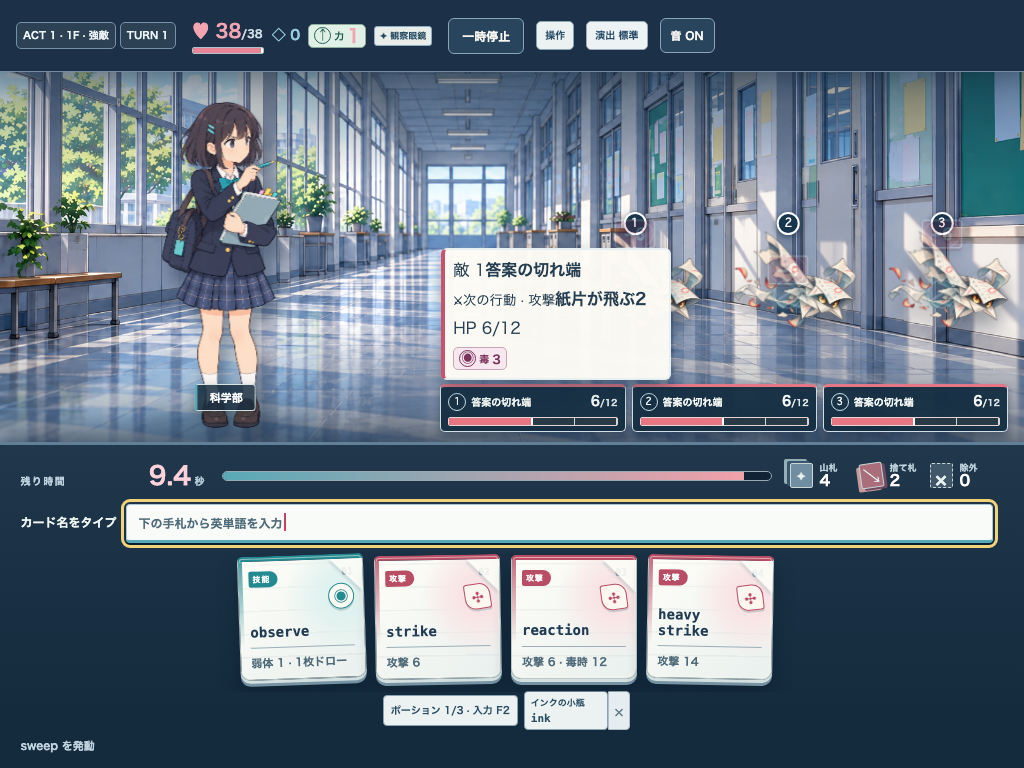
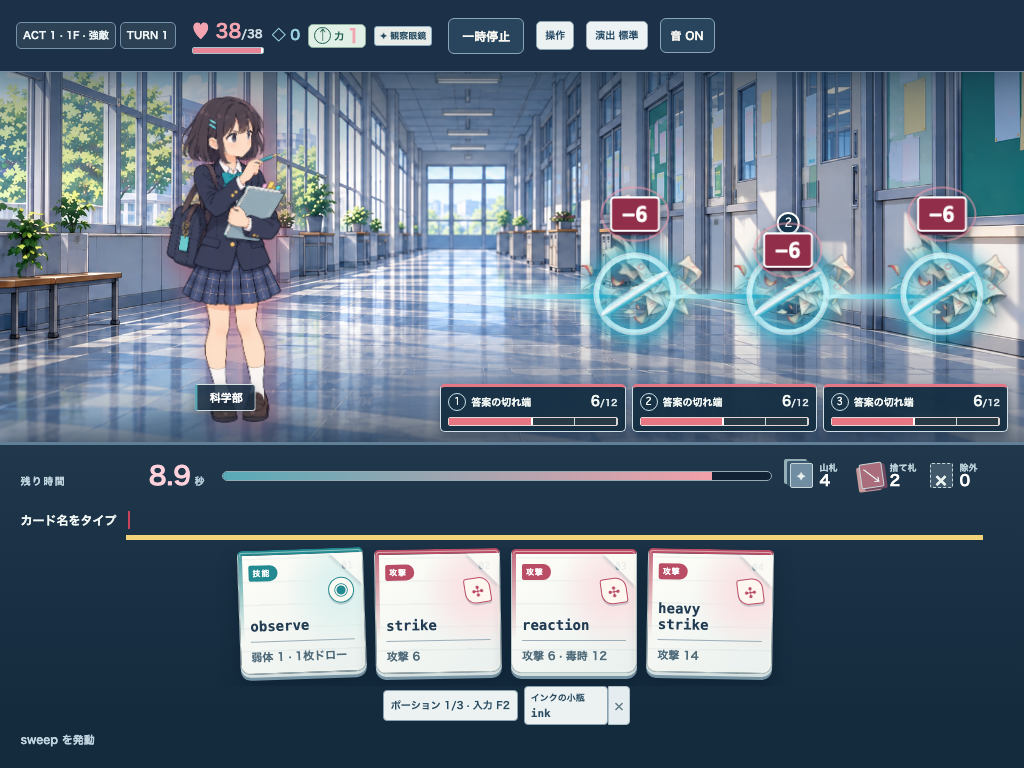
fix: reveal dense formation during result cues

diff --git a/tests/e2e/battle-hud-stability.spec.ts b/tests/e2e/battle-hud-stability.spec.ts
@@ -174,14 +174,20 @@ for (const { count, width, height } of [{ count: 3, width: 1024, height: 768 }, 
     await page.addInitScript((value) => localStorage.setItem("school-rg-run-v1", value), saved);
     await page.goto("/");
     await page.locator(".enemy-roster-button").first().click();
+    await expect(page.locator(".enemy-detail").first()).toBeVisible();
     await page.keyboard.type("sample");
     await expect(page.locator(".result-fx-mark[data-kind=debuff]")).toContainText("毒 +3");
+    await expect(page.locator(".enemy-detail").first()).toBeHidden();
+    await expect(page.locator(".enemy-roster-button").first()).toHaveAttribute("aria-label", /状態: 毒 3/);
     const statusMark = await page.locator(".result-fx-mark[data-kind=debuff]").boundingBox();
     const roster = await page.locator(".enemy-roster").boundingBox();
     expect(statusMark!.y + statusMark!.height).toBeLessThanOrEqual(roster!.y);
+    await page.clock.runFor(420);
+    await expect(page.locator(".enemy-detail").first()).toBeVisible();
     await expect(page.locator(".enemy-detail-status").first()).toContainText("毒");
     await page.keyboard.type("sweep");
     await expect(page.locator(".result-fx-mark[data-kind=damage]")).toHaveCount(count);
+    await expect(page.locator(".enemy-detail").first()).toBeHidden();
     await page.clock.runFor(140);
     const marks = await page.locator(".result-fx-mark[data-kind=damage]").evaluateAll((nodes) => nodes.map((node) => {
       const box = node.getBoundingClientRect();

diff --git a/src/ui/result-fx.css b/src/ui/result-fx.css
@@ -1,5 +1,7 @@
 /* Resolved values float over actors. Nothing changes the stage, header, or input geometry. */
 .result-fx-layer{position:absolute;inset:0;z-index:9;overflow:hidden;contain:paint;pointer-events:none}
+/* A hovered target's detail can cover several actors in dense formations. Yield the stage during a resolved cue. */
+.stage:has(.result-fx-layer) .enemy-detail{display:none}
 .result-fx-mark{position:absolute;top:calc(38% + var(--fx-offset,0px));display:block;min-width:48px;padding:5px 9px;transform:translate(-50%,0);border:2px solid #fff;border-radius:4px;background:#912f4a;color:#fff;box-shadow:0 3px 0 #4b2039,0 4px 14px #112b45b0;font:900 clamp(15px,2vw,26px)/1 ui-monospace,Menlo,monospace;text-align:center;white-space:nowrap;animation:result-pop .42s ease-out both}
 .result-fx-mark[data-kind="heal"]{background:#247c6e;box-shadow:0 3px 0 #175247,0 4px 14px #112b45b0}
 .result-fx-mark[data-kind="block"]{background:#38698f;box-shadow:0 3px 0 #254865,0 4px 14px #112b45b0}

diff --git a/docs/art/issue177-motion-review.md b/docs/art/issue177-motion-review.md
@@ -24,7 +24,7 @@
 
 [状態異常の局所表示](previews/issue177-status-response-1024.png) は、科学部のカード `sample` を実際に入力して確認した。
 [決着の一撃](previews/issue177-final-hit-1024.png) と [敗北の被弾](previews/issue177-final-loss-1024.png) は、勝敗確定後も画面全体を揺らさず対象だけに表示した。
-統合済みの状態アイコンと敵名札を含む [3体編成](previews/issue177-formation-3-1024.png)・[5体編成](previews/issue177-formation-5-1024.png) でも、全体攻撃の結果を敵ごとにずらして表示し、敵詳細より手前の層に置いた。敵の静的な状態アイコンは継続して読める。390px の [3体](previews/issue177-formation-3-390.png)・[5体](previews/issue177-formation-5-390.png) は参考確認で、詳細パネルと人物が重なる既存の狭幅課題が残る。対象端末はPC/iPadのため本Issueでの狭幅再設計は含めない。
+統合済みの状態アイコンと敵名札を含む [3体編成](previews/issue177-formation-3-1024.png)・[5体編成](previews/issue177-formation-5-1024.png) でも、全体攻撃の結果を敵ごとにずらして表示する。敵詳細は結果キュー中だけ隠し、キュー終了後に戻す。選択中の状態は敵ボタンの読み上げ名にも残る。390px の [3体](previews/issue177-formation-3-390.png)・[5体](previews/issue177-formation-5-390.png) は参考確認で、平常時の詳細パネルと人物が重なる既存の狭幅課題が残る。対象端末はPC/iPadのため本Issueでの狭幅再設計は含めない。
 新しい3 Actの後半背景でも攻撃結果の位置とコントラストを確認した。Act 1 [PC](previews/issue177-act1-impact-1440.png) / [iPad相当](previews/issue177-act1-impact-1024.png)、Act 2 [PC](previews/issue177-act2-impact-1440.png) / [iPad相当](previews/issue177-act2-impact-1024.png)、Act 3 [PC](previews/issue177-act3-impact-1440.png) / [iPad相当](previews/issue177-act3-impact-1024.png)。背景の明暗差があっても赤い数値札と白い縁が分離し、ステージ内に収まる。
 
 ## 検証範囲
@@ -33,7 +33,7 @@
 - 全E2E 96件は最初の実行で94件通過、複数味方の枠幅と手札固定語の前提による2件を修正した。修正箇所を含むE2E 5件は再実行で通過。
 - 最新 `main` のヘッダ統合後、単体/統合の対象6件、E2E 5件、戦闘内ヘルプと時計に関するE2E 3件が通過。PR CIで最終ツリー全体を確認する。
 - 決着演出の追加後、最後の一撃・致命的な被弾・決着中のセーブ復帰を専用E2E 2件で確認した。全体E2EはPR CIで確認する。
-- #191 のカード・状態表示を取り込んだ後、3体/5体編成の状態異常と全体攻撃を1024px・390pxで専用E2E 4件として確認した。
+- #191 のカード・状態表示を取り込んだ後、3体/5体編成の状態異常と全体攻撃を1024px・390pxで専用E2E 4件として確認した。敵詳細が結果キュー中に閉じ、終了後に戻ることも確認した。
 - #196 の背景を取り込んだ後、3 Act後半の戦闘をPC/iPad相当の6画面で操作し、攻撃結果がステージ内に収まる専用E2E 1件を通過した。
 - Macのブラウザ画面による確認であり、iPad実機でのタッチ・描画確認は未実施。
 
